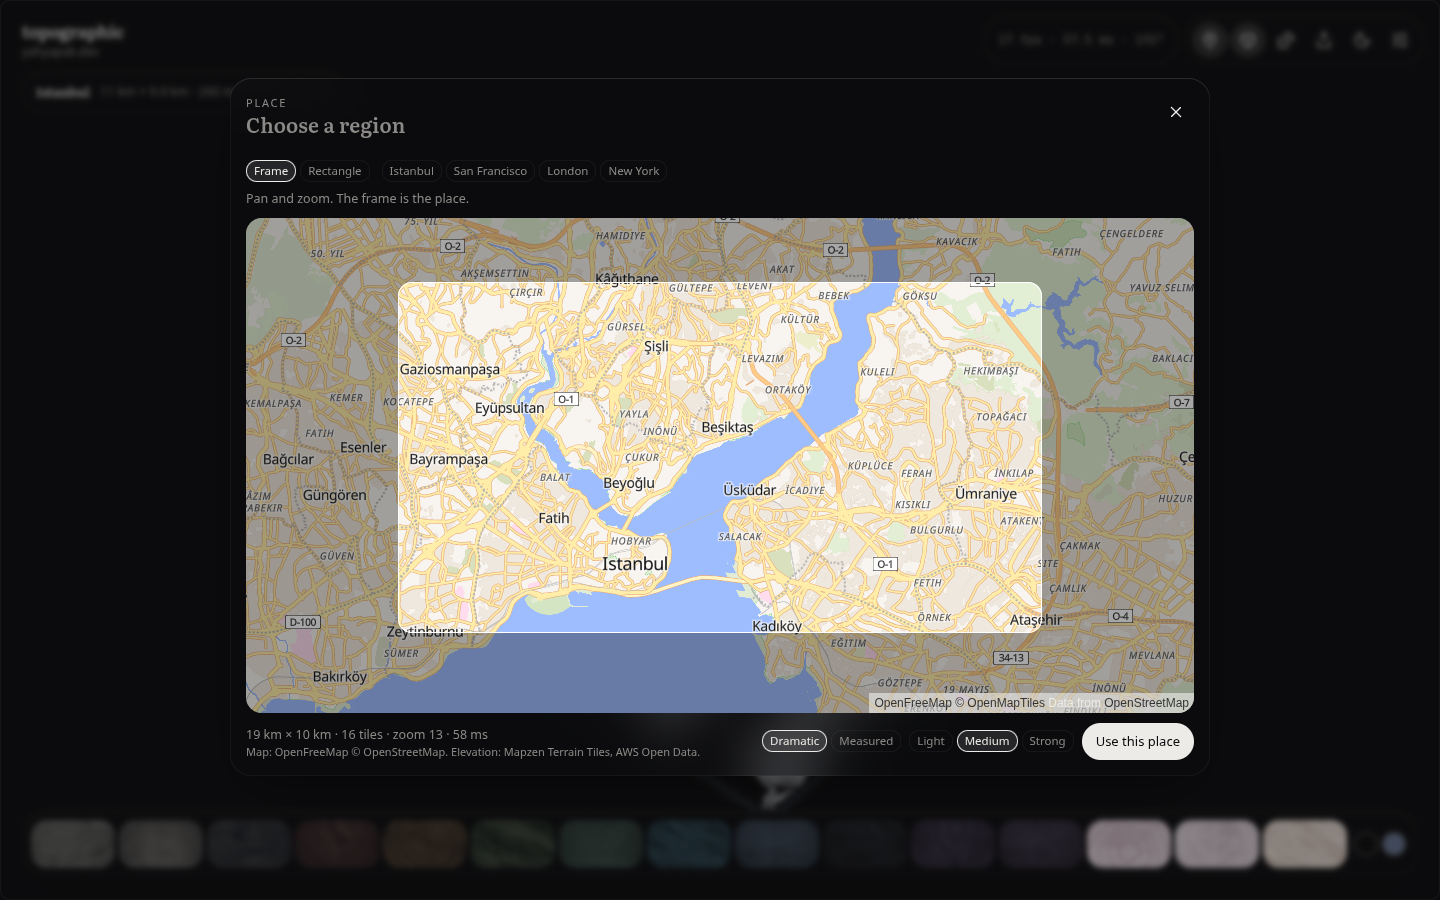
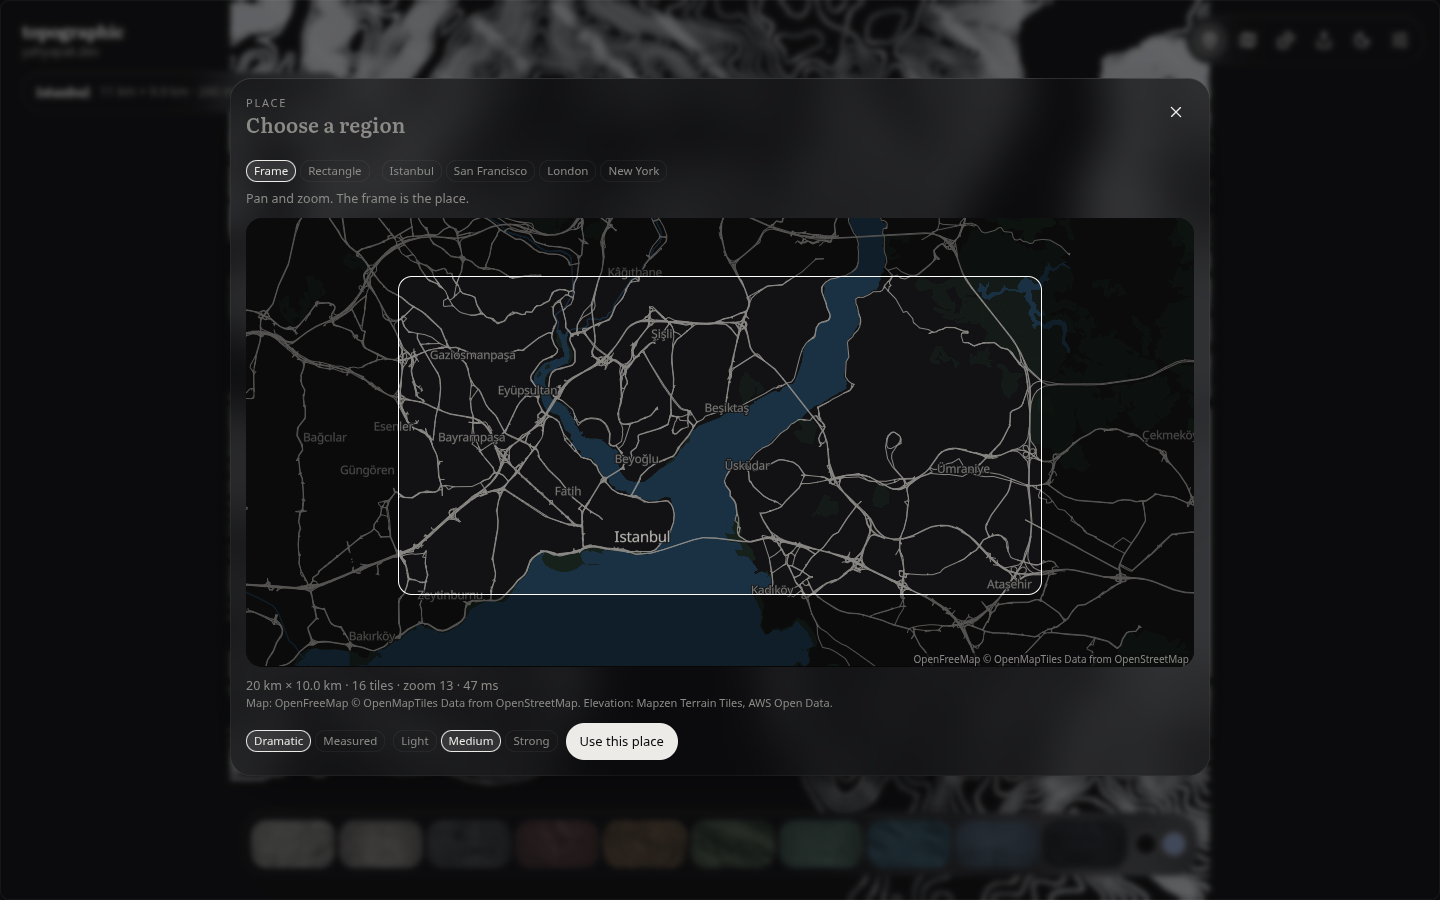
paint the place map in the playground palette
- the quiet style draws openfreemap vector tiles in the paper and ink colours
- liberty stays available with basemap=liberty for a side by side look
- a planet pmtiles file is about 120 gb, so it does not fit a free unlimited host
- frame and rectangle are reshot in light and dark

diff --git a/apps/playground/src/prototype/region/basemap.ts b/apps/playground/src/prototype/region/basemap.ts
@@ -1,0 +1,195 @@
+import type { ExpressionSpecification, FilterSpecification, LayerSpecification, StyleSpecification } from 'maplibre-gl';
+
+/** The previous OpenFreeMap look, kept for a side-by-side comparison. */
+export const LIBERTY_STYLE = 'https://tiles.openfreemap.org/styles/liberty';
+
+/** OpenMapTiles planet. The TileJSON follows their latest deploy, so the tile path can change. */
+export const PLANET_TILEJSON = 'https://tiles.openfreemap.org/planet';
+
+export const MAP_CREDIT = 'OpenFreeMap © OpenMapTiles Data from OpenStreetMap';
+
+export type BasemapId = 'quiet' | 'liberty';
+export type MapAppearance = 'light' | 'dark';
+
+/** `basemap=liberty` selects the old style. Anything else, including an empty query, is the quiet map. */
+export function readBasemap(search: string): BasemapId {
+  return new URLSearchParams(search).get('basemap') === 'liberty' ? 'liberty' : 'quiet';
+}
+
+export function mapStyle(search: string, appearance: MapAppearance): string | StyleSpecification {
+  return readBasemap(search) === 'liberty' ? LIBERTY_STYLE : quietStyle(appearance);
+}
+
+interface Ink {
+  land: string;
+  water: string;
+  park: string;
+  wood: string;
+  building: string;
+  street: string;
+  road: string;
+  label: string;
+  place: string;
+  edge: string;
+}
+
+/** Paper and ink from the playground, with a calm water tone so a strait still reads. */
+const INK: Record<MapAppearance, Ink> = {
+  dark: {
+    land: '#121214',
+    water: '#1a3144',
+    park: '#18241c',
+    wood: '#141e18',
+    building: '#1c1c20',
+    street: '#3a3a3e',
+    road: '#8a8884',
+    label: '#8b8a86',
+    place: '#d4d2cc',
+    edge: '#3c3c40',
+  },
+  light: {
+    land: '#f4f2ee',
+    water: '#c9d6e0',
+    park: '#e2ebe3',
+    wood: '#d7e3d9',
+    building: '#e7e3dc',
+    street: '#ffffff',
+    road: '#b7b2a9',
+    label: '#7c7a76',
+    place: '#2a2926',
+    edge: '#d4d0c8',
+  },
+};
+
+function zoomWidth(stops: number[]): ExpressionSpecification {
+  return ['interpolate', ['exponential', 1.2], ['zoom'], ...stops] as ExpressionSpecification;
+}
+
+function classIs(names: string[]): FilterSpecification {
+  return ['match', ['get', 'class'], names, true, false] as FilterSpecification;
+}
+
+/** A quiet basemap. Land, water, a few roads, and place names. No pins, shields, or hatched rails. */
+export function quietStyle(appearance: MapAppearance): StyleSpecification {
+  const ink = INK[appearance];
+  const road = (id: string, classes: string[], widths: number[], color: string, minzoom?: number): LayerSpecification => ({
+    id,
+    type: 'line',
+    source: 'openmaptiles',
+    'source-layer': 'transportation',
+    minzoom,
+    filter: classIs(classes),
+    layout: { 'line-cap': 'round', 'line-join': 'round' },
+    paint: { 'line-color': color, 'line-width': zoomWidth(widths) },
+  });
+  const label = (id: string, cls: string, minzoom: number, size: number[], color: string): LayerSpecification => ({
+    id,
+    type: 'symbol',
+    source: 'openmaptiles',
+    'source-layer': 'place',
+    minzoom,
+    filter: ['==', ['get', 'class'], cls] as FilterSpecification,
+    layout: {
+      'text-field': ['coalesce', ['get', 'name_en'], ['get', 'name']] as ExpressionSpecification,
+      'text-font': ['Noto Sans Regular'],
+      'text-size': zoomWidth(size),
+      'text-max-width': 8,
+      'text-letter-spacing': 0.01,
+    },
+    paint: {
+      'text-color': color,
+      'text-halo-color': ink.land,
+      'text-halo-width': 1.1,
+    },
+  });
+
+  return {
+    version: 8,
+    name: 'topographic-quiet',
+    glyphs: 'https://tiles.openfreemap.org/fonts/{fontstack}/{range}.pbf',
+    sources: {
+      openmaptiles: {
+        type: 'vector',
+        url: PLANET_TILEJSON,
+        attribution: MAP_CREDIT,
+      },
+    },
+    layers: [
+      { id: 'land', type: 'background', paint: { 'background-color': ink.land } },
+      {
+        id: 'park',
+        type: 'fill',
+        source: 'openmaptiles',
+        'source-layer': 'park',
+        paint: { 'fill-color': ink.park, 'fill-opacity': 0.85 },
+      },
+      {
+        id: 'wood',
+        type: 'fill',
+        source: 'openmaptiles',
+        'source-layer': 'landcover',
+        filter: ['==', ['get', 'class'], 'wood'],
+        paint: { 'fill-color': ink.wood, 'fill-opacity': 0.7 },
+      },
+      {
+        id: 'water',
+        type: 'fill',
+        source: 'openmaptiles',
+        'source-layer': 'water',
+        filter: ['!=', ['get', 'brunnel'], 'tunnel'],
+        paint: { 'fill-color': ink.water },
+      },
+      {
+        id: 'waterway',
+        type: 'line',
+        source: 'openmaptiles',
+        'source-layer': 'waterway',
+        minzoom: 8,
+        filter: classIs(['river', 'canal']),
+        layout: { 'line-cap': 'round', 'line-join': 'round' },
+        paint: { 'line-color': ink.water, 'line-width': zoomWidth([8, 0.6, 14, 2.4]) as ExpressionSpecification },
+      },
+      road('street', ['minor', 'service'], [13, 0.2, 14, 0.7, 16, 1.6], ink.street, 13),
+      road('arterial', ['secondary', 'tertiary'], [11, 0.3, 14, 1.1, 16, 2.2], ink.road, 11),
+      road('highway', ['motorway', 'trunk', 'primary'], [6, 0.4, 12, 1.2, 16, 2.6], ink.road, 6),
+      {
+        id: 'building',
+        type: 'fill',
+        source: 'openmaptiles',
+        'source-layer': 'building',
+        minzoom: 14,
+        paint: { 'fill-color': ink.building, 'fill-outline-color': ink.edge },
+      },
+      {
+        id: 'boundary',
+        type: 'line',
+        source: 'openmaptiles',
+        'source-layer': 'boundary',
+        filter: ['all', ['==', ['get', 'admin_level'], 2], ['!=', ['get', 'maritime'], 1]],
+        paint: { 'line-color': ink.edge, 'line-width': 0.8, 'line-opacity': 0.7 },
+      },
+      label('country', 'country', 2, [2, 11, 5, 15], ink.label),
+      label('city', 'city', 4, [4, 12, 8, 15], ink.place),
+      label('town', 'town', 9, [9, 11, 13, 13], ink.label),
+      {
+        id: 'road-name',
+        type: 'symbol',
+        source: 'openmaptiles',
+        'source-layer': 'transportation_name',
+        minzoom: 13,
+        filter: classIs(['motorway', 'trunk', 'primary']),
+        layout: {
+          'symbol-placement': 'line',
+          'text-field': ['coalesce', ['get', 'name_en'], ['get', 'name']] as ExpressionSpecification,
+          'text-font': ['Noto Sans Regular'],
+          'text-size': 11,
+        },
+        paint: {
+          'text-color': ink.label,
+          'text-halo-color': ink.land,
+          'text-halo-width': 1,
+        },
+      },
+    ],
+  };
+}

diff --git a/apps/playground/src/prototype/region/Picker.tsx b/apps/playground/src/prototype/region/Picker.tsx
@@ -6,7 +6,8 @@ import 'maplibre-gl/dist/maplibre-gl.css';
 
 setWorkerUrl(maplibreWorkerUrl);
 import { limitMessage, limitProblem, spanOf, type BBox } from './pipeline';
-import { findPlace, FRAME, MAP_STYLE, PLACES } from './places';
+import { MAP_CREDIT, mapStyle, type MapAppearance } from './basemap';
+import { findPlace, FRAME, PLACES } from './places';
 import type { RegionController } from './useRegion';
 
 type PickMode = 'frame' | 'draw';
@@ -75,7 +76,12 @@ export function RegionPill({ region, onOpen }: { region: RegionController; onOpe
   );
 }
 
-export function PlaceSheet({ open, onClose, region }: { open: boolean; onClose: () => void; region: RegionController }) {
+export function PlaceSheet({ open, onClose, region, appearance }: {
+  open: boolean;
+  onClose: () => void;
+  region: RegionController;
+  appearance: MapAppearance;
+}) {
   const host = useRef<HTMLDivElement>(null);
   const frame = useRef<HTMLDivElement>(null);
   const mapRef = useRef<MapMap | null>(null);
@@ -89,7 +95,7 @@ export function PlaceSheet({ open, onClose, region }: { open: boolean; onClose: 
     if (!open || !host.current) return;
     const map = new MapLibre({
       container: host.current,
-      style: MAP_STYLE,
+      style: mapStyle(location.search, appearance),
       center: [region.bbox ? (region.bbox.west + region.bbox.east) / 2 : 29, region.bbox ? (region.bbox.south + region.bbox.north) / 2 : 41.03],
       zoom: 11,
       attributionControl: { compact: false },
@@ -133,7 +139,7 @@ export function PlaceSheet({ open, onClose, region }: { open: boolean; onClose: 
       map.remove();
       mapRef.current = null;
     };
-  }, [open]);
+  }, [open, appearance]);
 
   useEffect(() => {
     const map = mapRef.current;
@@ -205,7 +211,7 @@ export function PlaceSheet({ open, onClose, region }: { open: boolean; onClose: 
               {region.status === 'loading' ? ' · Reading the land…' : ''}
               {region.status === 'error' && region.error ? ` · ${region.error}` : ''}
             </p>
-            <p className="pt-hint pt-attrib">Map: OpenFreeMap © OpenStreetMap. Elevation: Mapzen Terrain Tiles, AWS Open Data.</p>
+            <p className="pt-hint pt-attrib">Map: {MAP_CREDIT}. Elevation: Mapzen Terrain Tiles, AWS Open Data.</p>
           </div>
           <div className="pt-place-actions">
             <div className="pt-chips" role="group" aria-label="Relief">

diff --git a/apps/playground/src/prototype/ui.tsx b/apps/playground/src/prototype/ui.tsx
@@ -7,7 +7,7 @@ import { Tooltip } from '@base-ui-components/react/tooltip';
 import { Box, Dices, Frame, Map, Moon, Mountain, RotateCcw, SlidersHorizontal, Spline, Sun, Wind } from 'lucide-react';
 import { PlaceButton, PlaceSheet, RegionPill } from './region/Picker';
 import { useRegion } from './region/useRegion';
-import { DEFAULT_CAMERA, DEFAULT_DETAIL, DEFAULT_ELEVATION, GROUPS, paramsIn, type CameraMotion, type GroupName, type ParamDef, type TerrainExtent } from 'topographic';
+import { DEFAULT_CAMERA, DEFAULT_DETAIL, DEFAULT_ELEVATION, GROUPS, paramsIn, resolveMode, type CameraMotion, type GroupName, type ParamDef, type TerrainExtent } from 'topographic';
 import { LOOKS } from './looks';
 import {
   Backdrop, ColorPicker, GROUP_LABELS, INK_SWATCHES, PAPER_SWATCHES, Wordmark, currentColour, rollColour, useLookThumbs,
@@ -522,7 +522,12 @@ export function GlassFrame({ pg, tune, exporting }: {
         exporting={exporting(exp, (open) => { setExp(open); if (open) { setTuneOpen(false); setPlaceOpen(false); } }, clusterRef)}
       >
         <RegionPill region={region} onOpen={() => setPlaceOpen(true)} />
-        <PlaceSheet open={placeOpen} onClose={() => setPlaceOpen(false)} region={region} />
+        <PlaceSheet
+          open={placeOpen}
+          onClose={() => setPlaceOpen(false)}
+          region={region}
+          appearance={resolveMode(pg.settings.theme.mode, document.documentElement.dataset.theme !== 'light')}
+        />
         <Popover.Portal>
           <Popover.Positioner anchor={clusterRef} side="bottom" align="end" sideOffset={10} collisionPadding={{ top: 12, right: 8, bottom: 16, left: 8 }} positionMethod="fixed" className="pt-layer">
             <Popover.Popup className="pt-pop pt-glass pt-panel">

diff --git a/apps/playground/src/prototype/prototype.css b/apps/playground/src/prototype/prototype.css
@@ -130,11 +130,14 @@ button.pt-use:disabled{opacity:.38}
 .pt-place-bar{display:flex;flex-wrap:wrap;align-items:center;gap:8px 12px}
 .pt-place-bar .pt-hint{flex-basis:100%;margin:0}
 .pt-map{position:relative}
-.pt-map-host{position:absolute;inset:0}
+.pt-map-host{position:absolute;inset:0;background:var(--paper)}
 .pt-map-host .maplibregl-map{font-family:var(--sans)}
-.pt-map-frame{position:absolute;left:16%;right:16%;top:13%;bottom:16%;border:1.5px solid #fff;border-radius:14px;box-shadow:0 0 0 999px rgba(0,0,0,.35);pointer-events:none}
+.pt-map-host .maplibregl-ctrl-attrib{background:color-mix(in srgb,var(--paper) 78%,transparent);color:var(--mut);font:10px/1.35 var(--sans);border-radius:8px}
+.pt-map-host .maplibregl-ctrl-attrib a{color:var(--mut)}
+.pt-map-frame{position:absolute;left:16%;right:16%;top:13%;bottom:16%;border:1.5px solid #fff;border-radius:14px;box-shadow:0 0 0 999px rgba(0,0,0,.38);pointer-events:none}
 .pt-map.is-draw{cursor:crosshair}
-.pt-map-box{position:absolute;border:1.5px solid #fff;border-radius:8px;background:rgba(255,255,255,.14);box-shadow:0 0 0 999px rgba(0,0,0,.35);pointer-events:none}
+.pt-map-box{position:absolute;border:1.5px solid #fff;border-radius:8px;background:rgba(255,255,255,.08);box-shadow:0 0 0 999px rgba(0,0,0,.38);pointer-events:none}
+:root[data-theme=light] .pt-map-frame,:root[data-theme=light] .pt-map-box{border-color:#1b1b1a;box-shadow:0 0 0 999px rgba(249,248,246,.55)}
 .pt-place-foot{display:flex;justify-content:space-between;gap:12px;align-items:flex-end;flex-wrap:wrap}
 .pt-place-foot .pt-hint{margin:0}
 .pt-place-actions{display:flex;flex-wrap:wrap;gap:8px;align-items:center;justify-content:flex-end}

diff --git a/apps/playground/src/prototype/region/basemap.test.ts b/apps/playground/src/prototype/region/basemap.test.ts
@@ -1,0 +1,29 @@
+import { describe, expect, it } from 'vitest';
+import { LIBERTY_STYLE, MAP_CREDIT, mapStyle, quietStyle, readBasemap } from './basemap';
+
+describe('basemap choice', () => {
+  it('keeps Liberty behind the flag and uses the quiet map otherwise', () => {
+    expect(readBasemap('?basemap=liberty')).toBe('liberty');
+    expect(readBasemap('?basemap=quiet')).toBe('quiet');
+    expect(readBasemap('')).toBe('quiet');
+    expect(mapStyle('?basemap=liberty', 'dark')).toBe(LIBERTY_STYLE);
+    expect(mapStyle('', 'light')).toMatchObject({ name: 'topographic-quiet' });
+  });
+
+  it('paints paper and water differently in each theme, and credits the tiles', () => {
+    const dark = quietStyle('dark');
+    const light = quietStyle('light');
+    const paint = (style: ReturnType<typeof quietStyle>, id: string) => style.layers.find((layer) => layer.id === id)?.paint;
+    expect(paint(dark, 'land')).toMatchObject({ 'background-color': '#121214' });
+    expect(paint(light, 'land')).toMatchObject({ 'background-color': '#f4f2ee' });
+    expect(paint(dark, 'water')).not.toEqual(paint(light, 'water'));
+    expect(dark.layers.map((layer) => layer.id).join(' ')).not.toContain('poi');
+    expect(dark.sources.openmaptiles).toMatchObject({
+      type: 'vector',
+      url: 'https://tiles.openfreemap.org/planet',
+      attribution: MAP_CREDIT,
+    });
+    expect(MAP_CREDIT).toContain('OpenMapTiles');
+    expect(MAP_CREDIT).toContain('OpenStreetMap');
+  });
+});

diff --git a/apps/playground/src/prototype/region/places.ts b/apps/playground/src/prototype/region/places.ts
@@ -45,7 +45,5 @@ export function configSetsElevation(search: string): boolean {
   }
 }
 
-export const MAP_STYLE = 'https://tiles.openfreemap.org/styles/liberty';
-
 /** Inset of the frame, as fractions of the map. */
 export const FRAME = { left: 0.16, right: 0.16, top: 0.13, bottom: 0.16 };

diff --git a/docs/prototypes/region/README.md b/docs/prototypes/region/README.md
@@ -20,7 +20,7 @@ That builds the packages, starts Vite and opens `/?variant=P2`. 2D is the defaul
 
 `region` is `west,south,east,north` in degrees. A JSON value works too: `{"bbox":[28.94,40.99,29.07,41.08]}` or `{"west":28.94,"south":40.99,"east":29.07,"north":41.08}`. `relief=measured` opts out of the dramatic stretch. `smooth=light` or `smooth=strong` opts out of medium. The same `config` query as the rest of the playground still sets the style, colours and camera. An explicit `elevation` in that config is kept. Without one, a place opens at 0.1.
 
-Place opens a map. Frame (the default) uses pan and zoom, and the inset rectangle is the place. Rectangle is a drag. The four chips load those cities immediately. Use this place commits whatever the frame or the drag currently covers.
+Place opens a map. Frame (the default) uses pan and zoom, and the inset rectangle is the place. Rectangle is a drag. The four chips load those cities immediately. Use this place commits whatever the frame or the drag currently covers. The map uses the quiet paper style. Add `basemap=liberty` to open the previous OpenFreeMap Liberty style instead.
 
 Regenerate the screenshots while that dev server is running:
 
@@ -43,7 +43,8 @@ Same style throughout: gentle summit, 28 lines. The `*-2d.png` and `*-3d.png` fi
 | `elevation-sweep-san-francisco.png` | The same sweep for San Francisco. |
 | `elevation-sweep-london.png` | The same sweep for London. |
 | `elevation-sweep-new-york.png` | The same sweep for New York. |
-| `picker-frame.png`, `picker-rectangle.png` | The two ways to choose the rectangle. |
+| `picker-frame.png`, `picker-rectangle.png` | The two ways to choose the rectangle, on the quiet dark map. |
+| `picker-frame-light.png`, `picker-rectangle-light.png` | The same two, on light paper. |
 
 The heights are bare earth. The contours are the ground, and the buildings are absent. Sea water is put back to zero after the blur, and the contour shader sits that floor between the lines, so the Bosphorus, the bay, the Thames and the Hudson are blank paper rather than a striped shelf.
 
@@ -51,9 +52,11 @@ A load of one of these cities took about 6 seconds in this browser. Almost all o
 
 ## Decisions
 
-**Map.** [MapLibre GL JS](https://maplibre.org/) 6.14.0 and the [OpenFreeMap](https://openfreemap.org/) Liberty style (`https://tiles.openfreemap.org/styles/liberty`). No API key, no account, no view cap. MapLibre adds the attribution. The map stays flat. OpenFreeMap also serves Positron, Bright, Dark and Fiord.
+**Map.** [MapLibre GL JS](https://maplibre.org/) 6.14.0. The default picker is our own quiet style on [OpenFreeMap](https://openfreemap.org/) vector tiles (`https://tiles.openfreemap.org/planet`). No API key, no account, no view cap. Land, water, thin roads, and place names follow the playground paper and ink, in light and in dark. Pins, shields, and rail hatching are left out. `basemap=liberty` still loads `https://tiles.openfreemap.org/styles/liberty` when you want the previous look beside this one. The map stays flat. MapLibre shows the tile credit, and the dialog repeats it.
 
-Google Maps needs a key, a billing account, and terms that do not suit a public GitHub Pages site. Leaflet with the public OpenStreetMap raster tiles needs no key, and the OSM tile usage policy is a poor fit for a public app. OpenFreeMap is the keyless vector option that states commercial use and unlimited views on the public instance.
+A Protomaps planet PMTiles file is about 120 GB. GitHub Pages allows a 1 GB site and 100 MB per file, and Cloudflare R2's free tier stores 10 GB, so a full planet is not an unlimited free host. A low-zoom world plus these four cities would fit on Pages, and any other place would go soft once you zoomed in. OpenFreeMap's public tiles are the unlimited, keyless way to cover every place through zoom 14, and the style is ours. The tiles remain theirs.
+
+Google Maps needs a key, a billing account, and terms that do not suit a public GitHub Pages site. Leaflet with the public OpenStreetMap raster tiles needs no key, and the OSM tile usage policy is a poor fit for a public app.
 
 **Elevation.** [Terrain Tiles](https://registry.opendata.aws/terrain-tiles/) on AWS Open Data, terrarium PNGs, no key:
 
@@ -89,7 +92,7 @@ A region mesh is at least 192 by 192. The detail slider still tops out at 160 fo
 
 ## Attribution
 
-The map control credits OpenFreeMap, OpenMapTiles and OpenStreetMap. Elevation follows the [Tilezen / joerd attribution](https://github.com/tilezen/joerd/blob/master/docs/attribution.md). Terrain Tiles was accessed in October 2026 from <https://registry.opendata.aws/terrain-tiles>.
+The map control and the dialog credit OpenFreeMap, OpenMapTiles and OpenStreetMap: `OpenFreeMap © OpenMapTiles Data from OpenStreetMap`. Elevation follows the [Tilezen / joerd attribution](https://github.com/tilezen/joerd/blob/master/docs/attribution.md). Terrain Tiles was accessed in October 2026 from <https://registry.opendata.aws/terrain-tiles>.
 
 - Mapzen
 - ArcticDEM terrain data DEM(s) were created from DigitalGlobe, Inc., imagery and funded under National Science Foundation awards 1043681, 1559691, and 1542736
